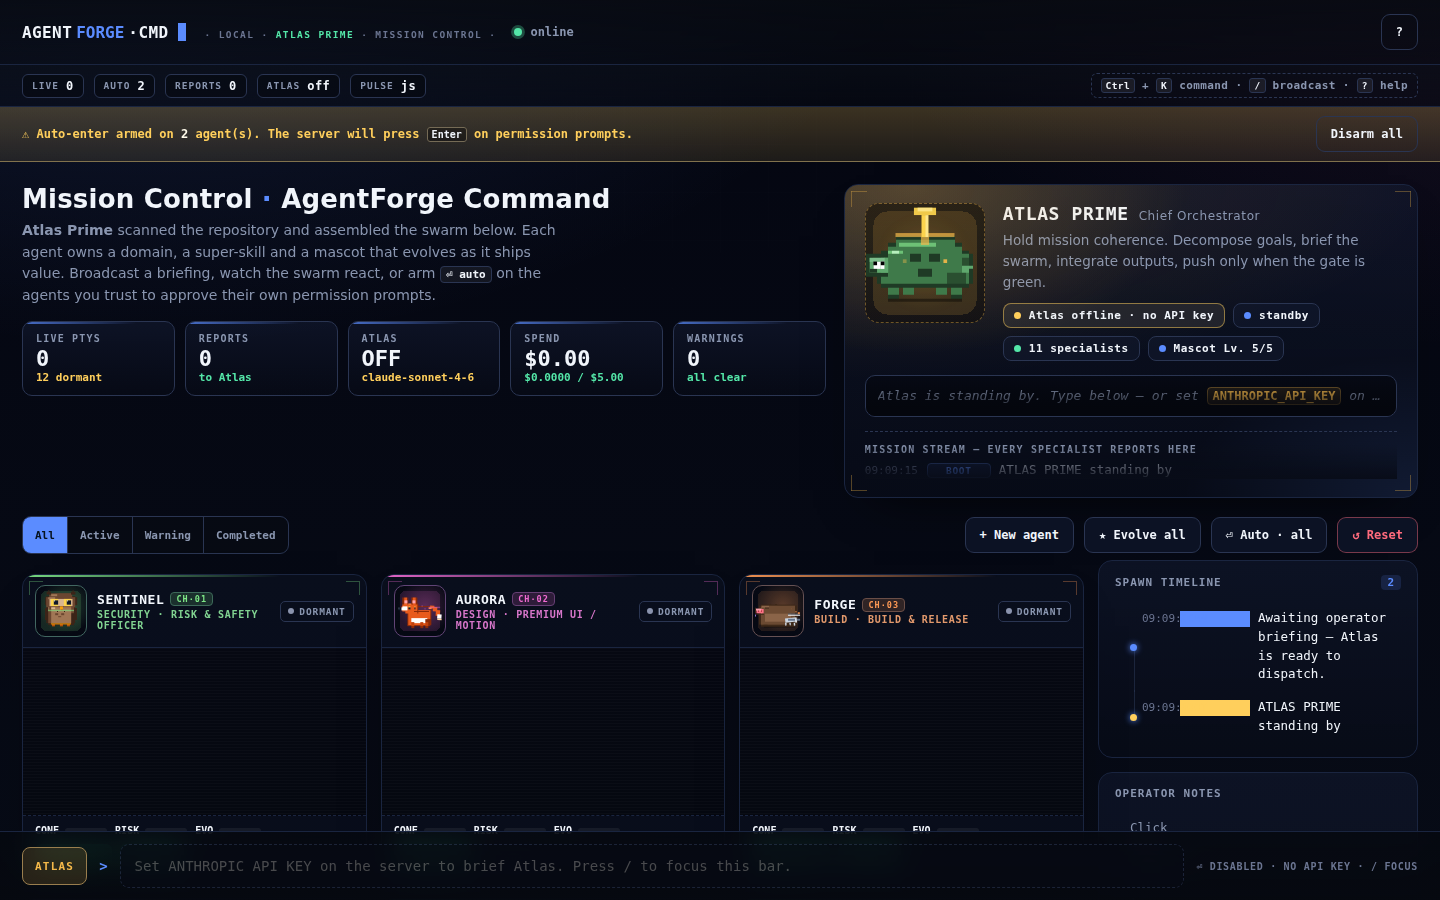
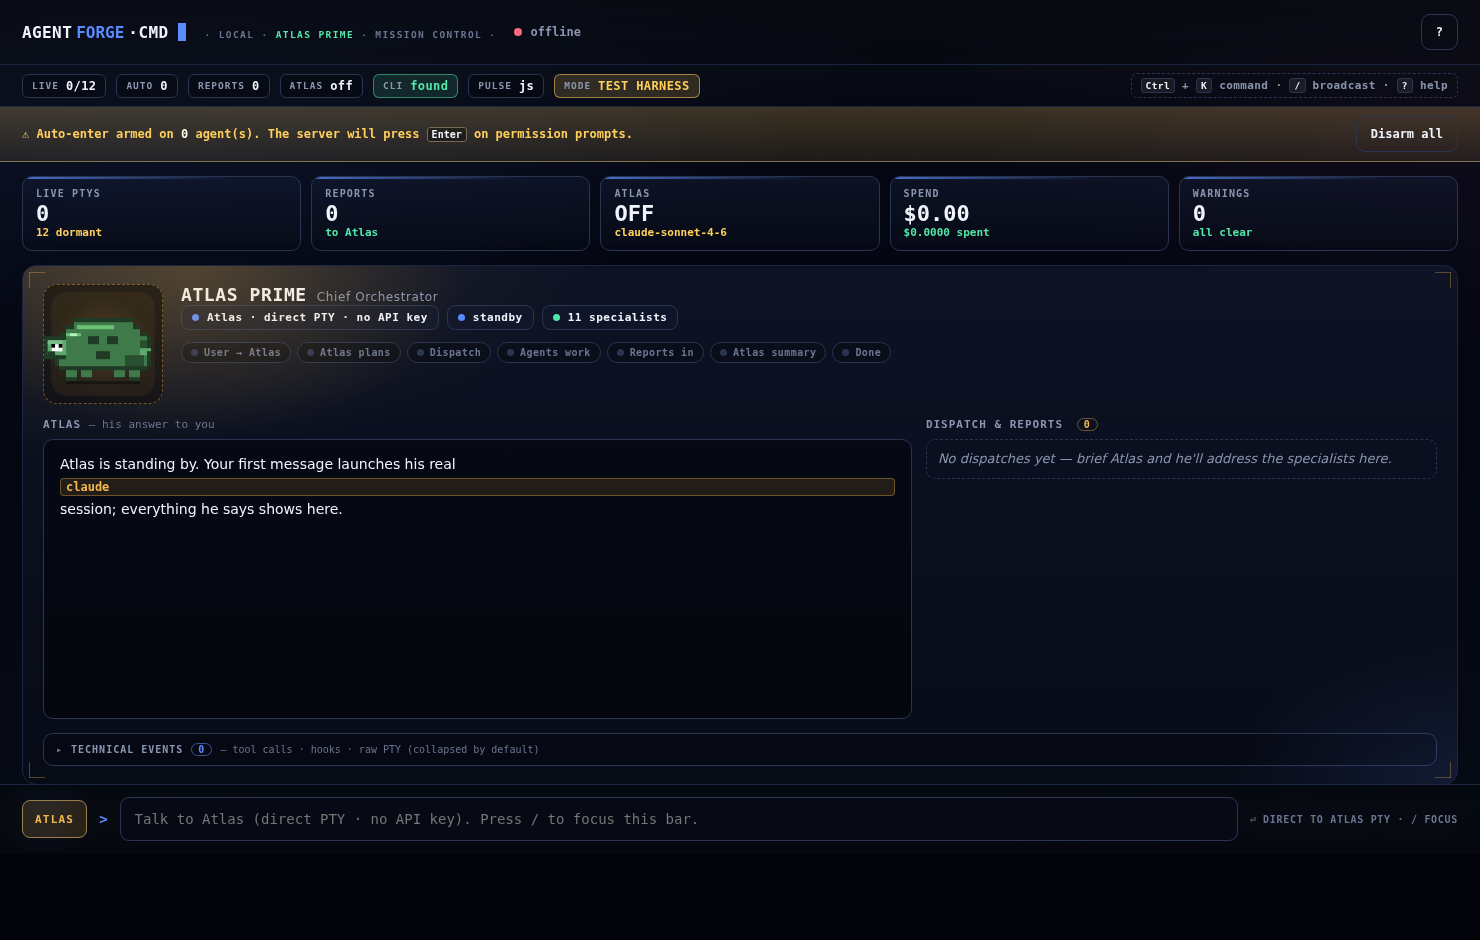
docs: refresh README hero with the redesigned dashboard
- Replace the stale mission-control hero with a fresh shot of the new
  Atlas-dominant layout.
- Add a swarm-check screenshot (08-atlas-workflow.png) showing Atlas's
  streamed answer, the workflow stepper and the Dispatch & reports panel.
  Captioned honestly: it's a deterministic test-harness run (badge visible),
  not fake activity.

https://claude.ai/code/session_01Ukj3fUxJUKPT8Y87CgWvVw

diff --git a/README.md b/README.md
@@ -39,8 +39,16 @@ accelerator (`forge-pulse`) sharpens prompt detection but is never required.
 ## The cockpit
 
 <p align="center">
-  <img src="docs/screenshots/01-mission-control.png" alt="AgentForge Mission Control · the default desktop view" width="100%"/>
+  <img src="docs/screenshots/01-mission-control.png" alt="AgentForge Mission Control · the redesigned Atlas-dominant cockpit" width="100%"/>
 </p>
+
+<p align="center"><em>The redesigned cockpit — Atlas Prime is the central figure with a large, readable answer area.</em></p>
+
+<p align="center">
+  <img src="docs/screenshots/08-atlas-workflow.png" alt="Atlas answering a swarm-check: streamed answer, workflow stepper and per-specialist dispatch panel" width="100%"/>
+</p>
+
+<p align="center"><em>A swarm-check in flight: your message, Atlas's streamed answer, the workflow stepper, and the Dispatch &amp; reports panel naming every specialist (here shown via the deterministic <b>test harness</b>, hence the badge — no fake activity).</em></p>
 
 <table>
   <tr>